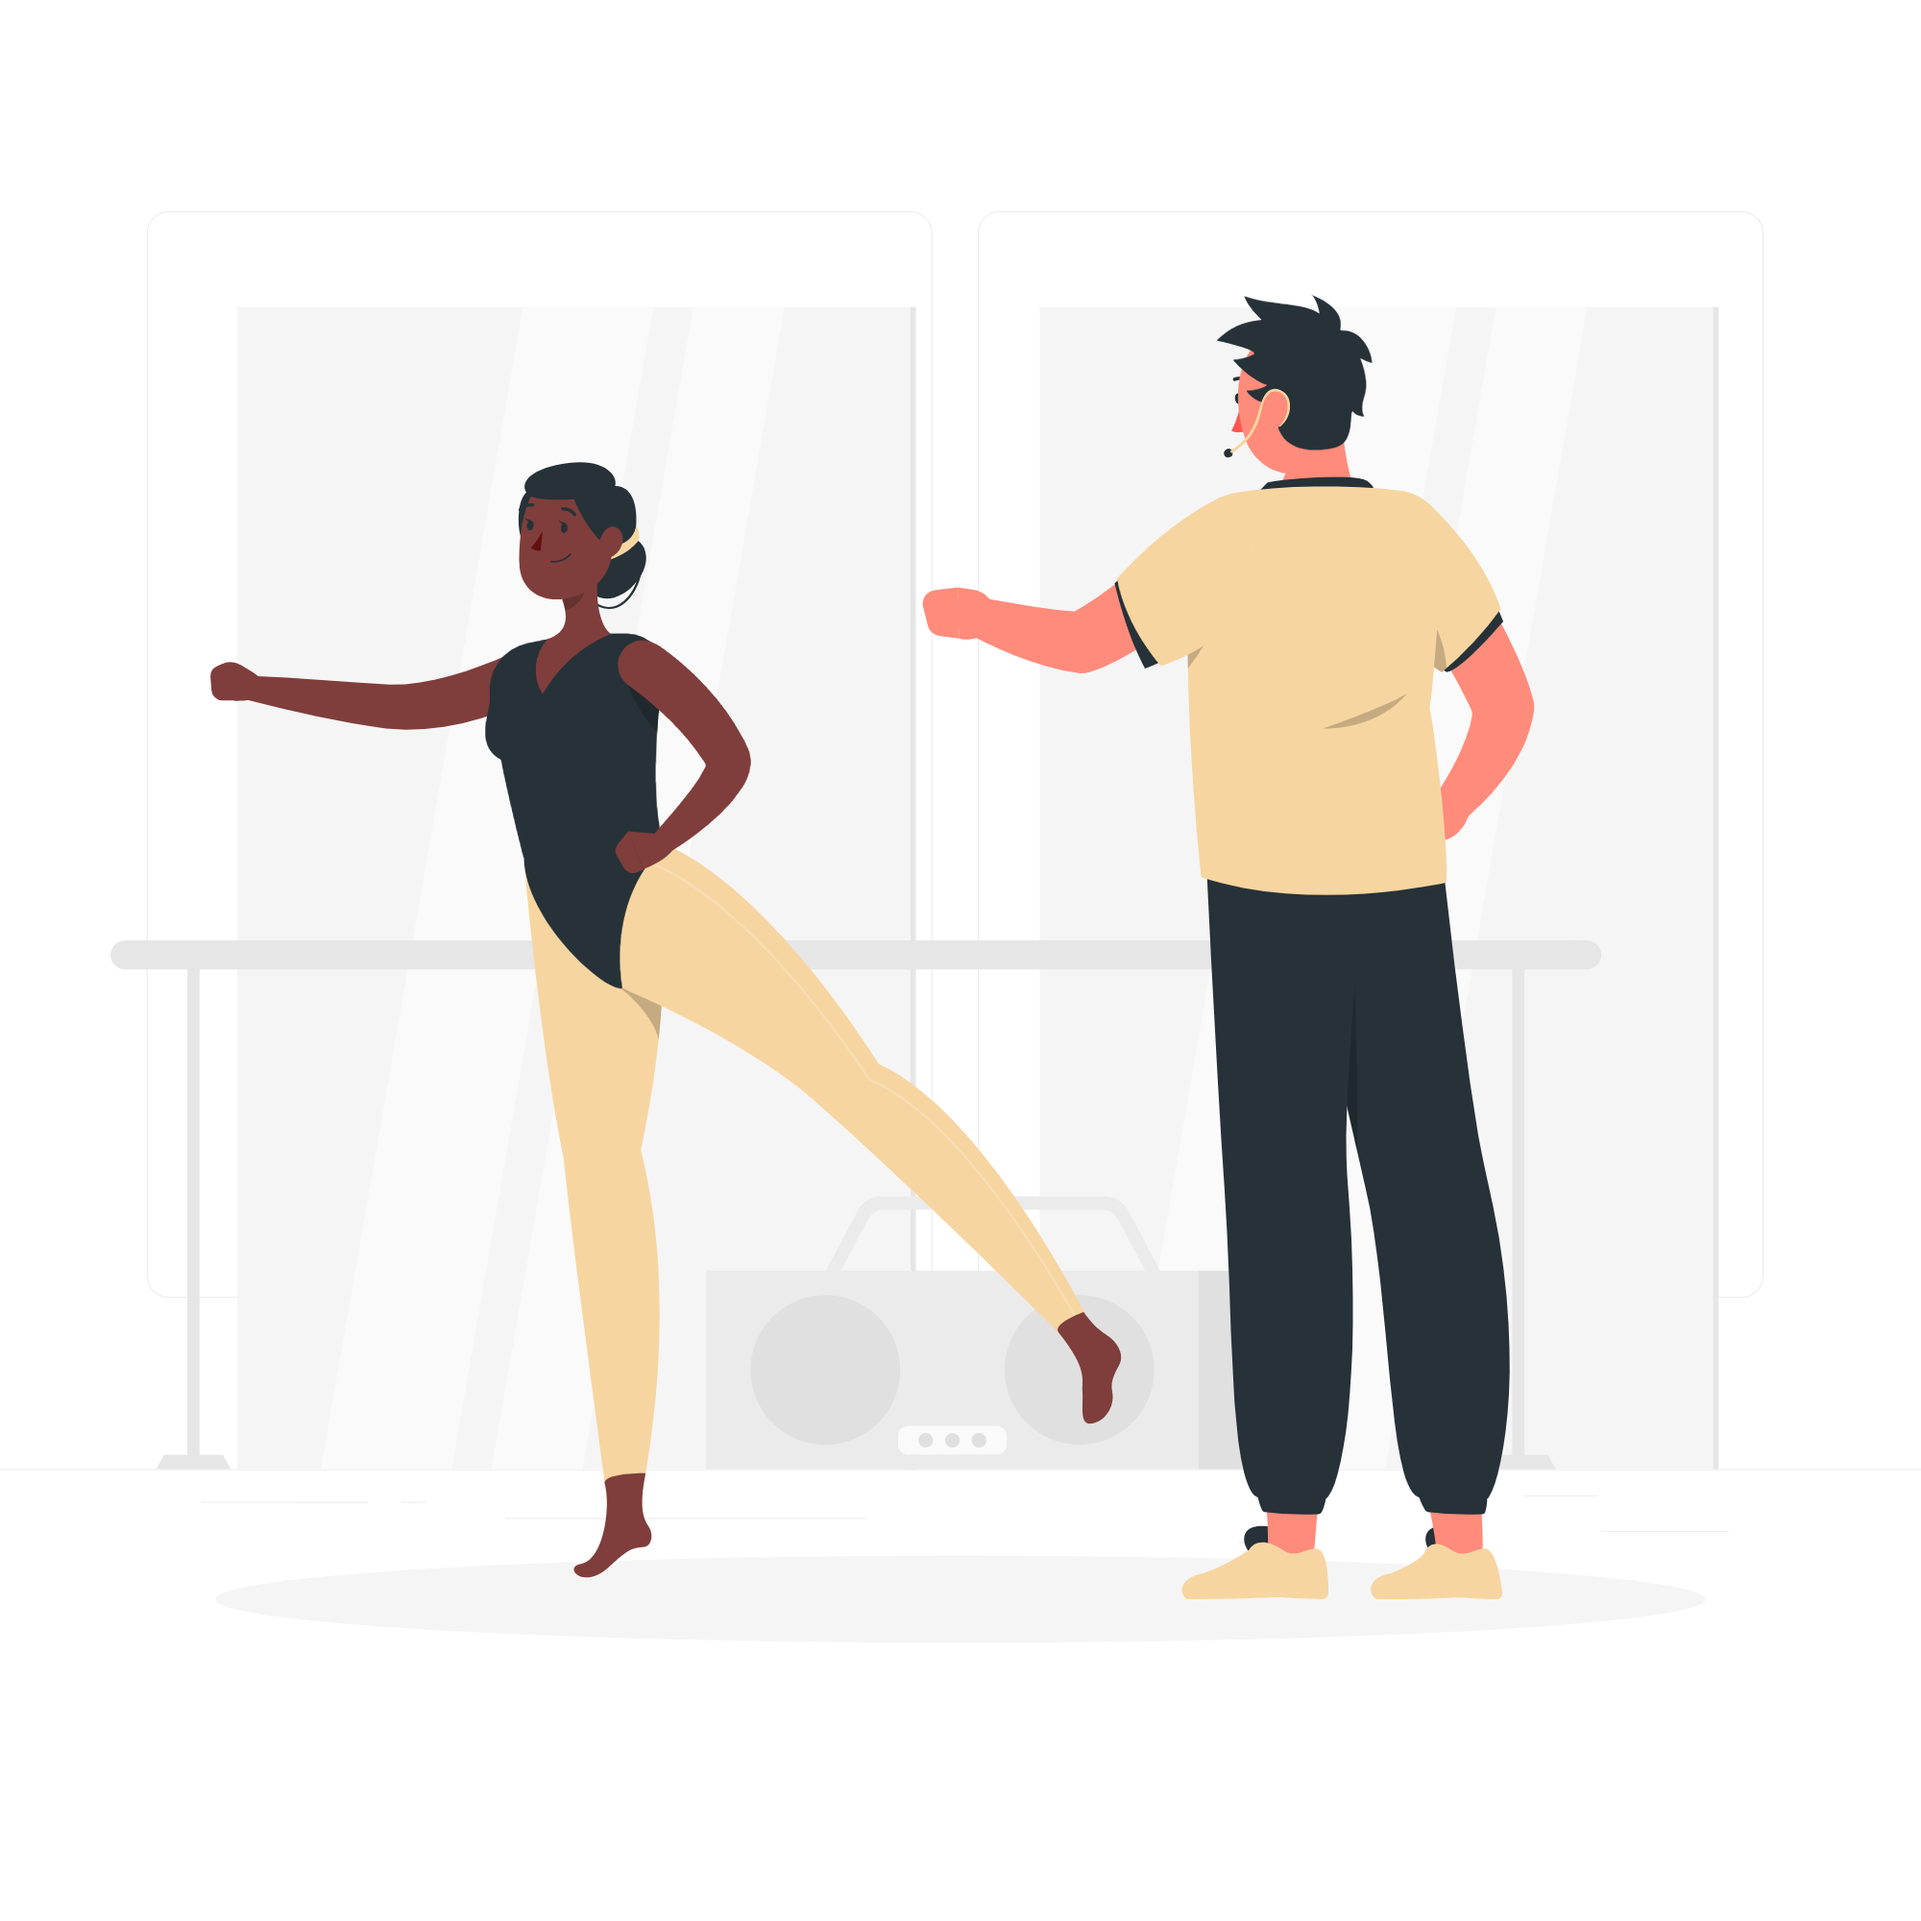
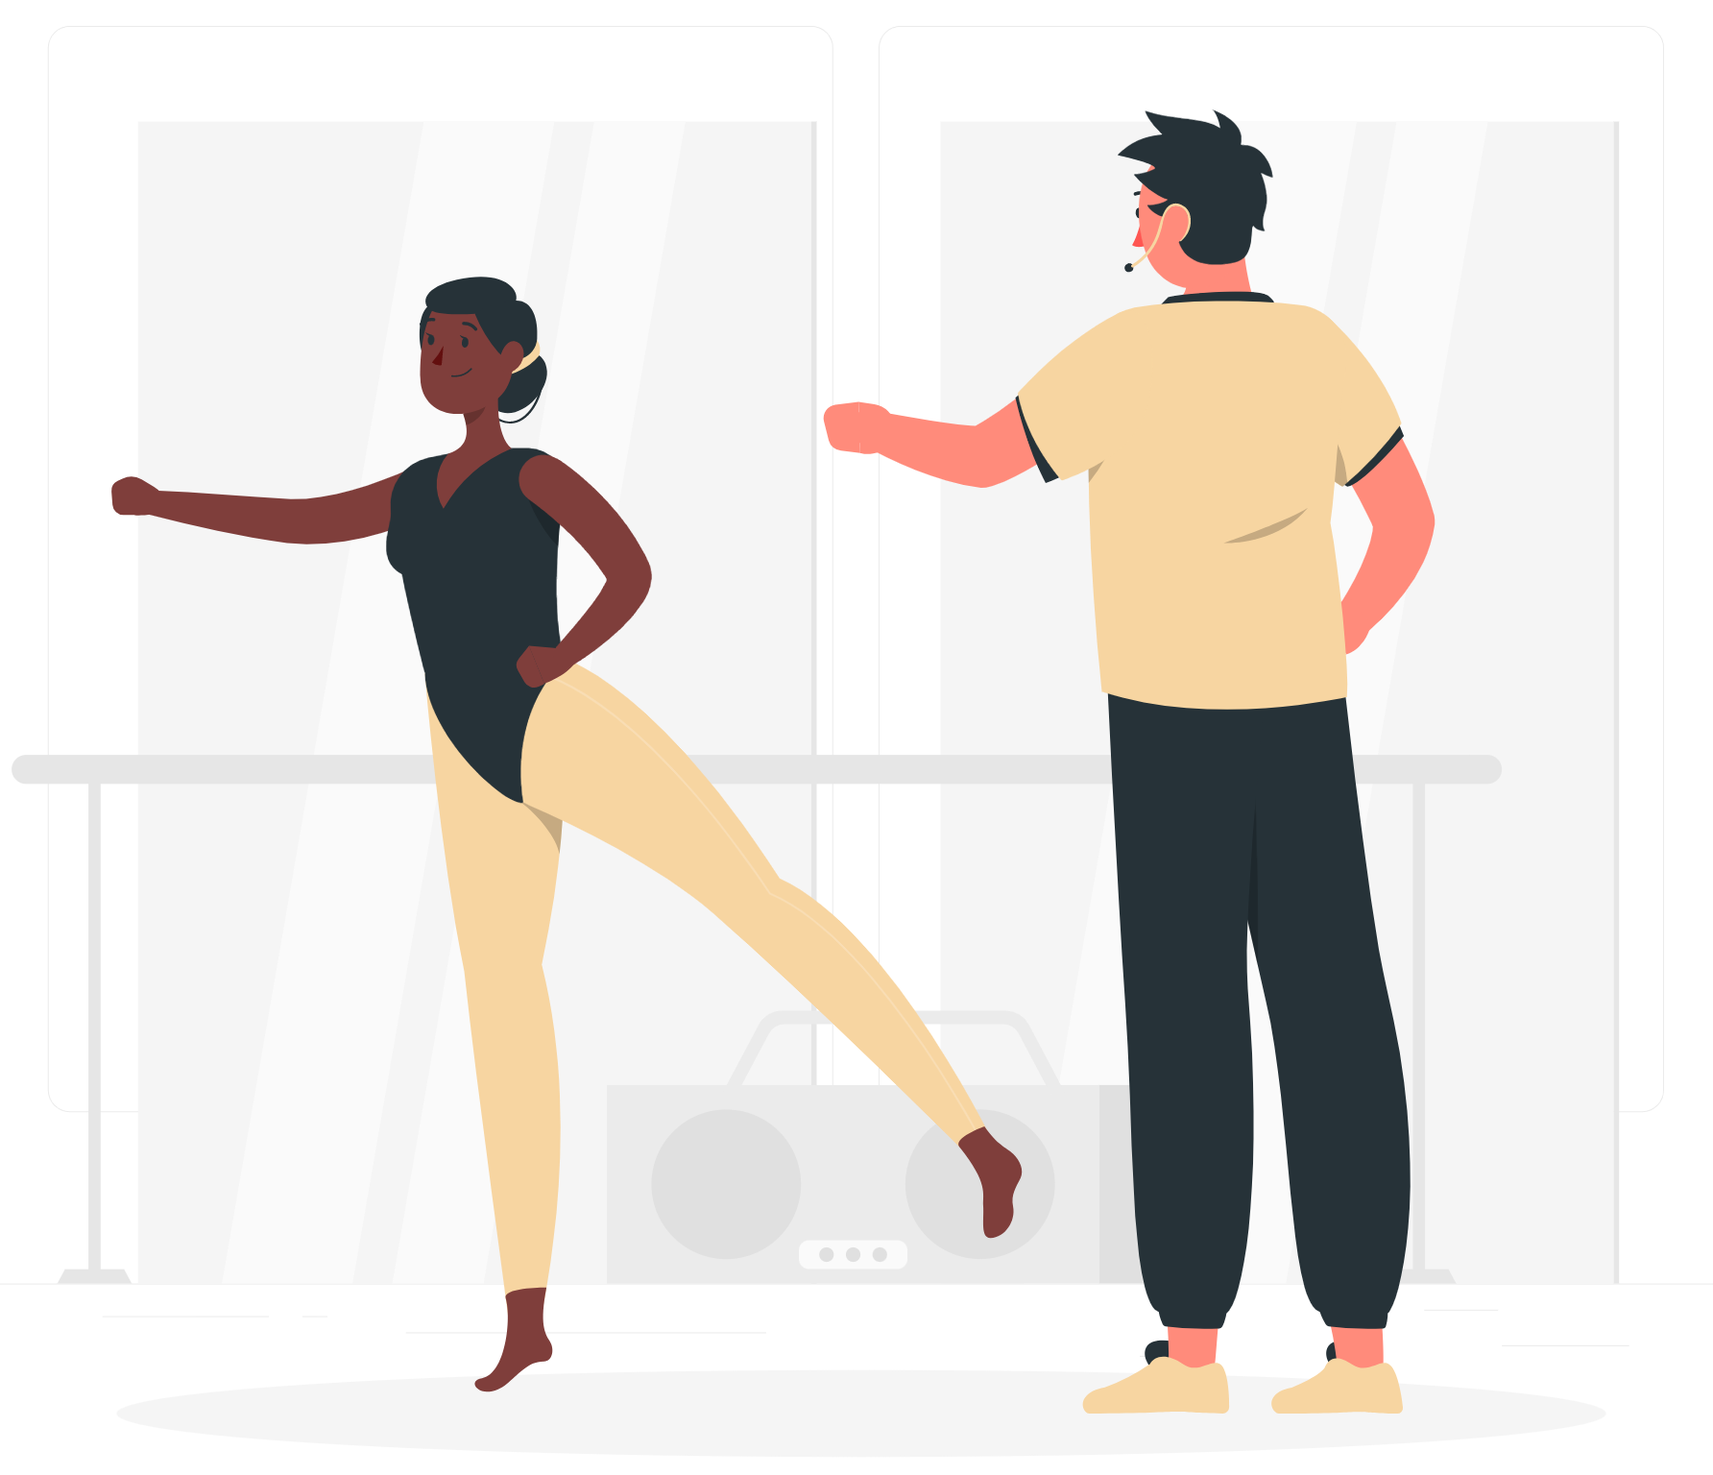
update login

diff --git a/public/css/login.css b/public/css/login.css
@@ -4,6 +4,7 @@
  */
 .main_login{
     width: 80vw!important;
+    height: 75vh;
     display: flex;
     margin: auto;
 }
@@ -18,6 +19,8 @@
 
 .main_login img{
     width: 50%;
+    animation: go-back 1.2s;
+    filter: drop-shadow(5px 5px 5px rgb(71, 71, 71));
 }
 
 .form_login{
@@ -54,20 +57,42 @@ form{
 }
 
 .submit button{
-    position: relative;
-    display: flex;
-    align-items: center;
-    justify-content: center;
     width: 100%;
-    height: 100%;
+    height: 55%;
+    display: flex;
+    justify-content: center;
+    align-items: center;
+    line-height: 56px;
+    text-decoration: none;
+    font-weight: bold;
+    color: var(--branco);
     background-color: var(--rosa);
     border: 1px solid var(--rosa);
-    font-weight: bold;
+    border-radius: 10px;
+    box-shadow: 5px 5px 10px 1px #00000026;
+    font-family: var(--roboto) !important;
     font-size: 20px;
 }
 
 .submit button:hover{
     color: #fff;
+    background-color: var(--rosa);
+    border: 1px solid var(--rosa);
+    transform: scale(1.02);
+    transition: transform 0.4s ease-in-out;
+}
+
+.submit button:active {
+    top: 2px;
+    background-color: var(--rosaE);
+}
+
+.submit button:hover:after{
+    left: 0;
+    width: 100%;
+}
+
+.submit button:after{
     position: absolute;
     content: "";
     width: 0;
@@ -83,23 +108,28 @@ form{
     transition: all 0.3s ease;
 }
 
-.submit button:hover:after{
-    left: 0;
-    width: 100%;
+.submit button:click {
+    background-color: var(--rosaE);
 }
 
-.submit button:after{
-    /* position: absolute;
-    content: "";
-    width: 0;
-    height: 100%;
-    top: 0;
-    right: 0;
-    z-index: -1;
-    background-color: var(--rosaE);
-    border-radius: 5px;
-    box-shadow: inset 2px 2px 2px 0px rgba(255, 255, 255, .5),
-        7px 7px 20px 0px rgba(0, 0, 0, .1),
-        4px 4px 5px 0px rgba(0, 0, 0, .1);
-    transition: all 0.3s ease; */
+.btn-primary{
+    --bs-btn-active-bg: var(--rosaE)!important;
+    --bs-btn-active-border-color: var(--rosaE)!important;
+}
+
+
+.justify-content-center {
+    height: calc( 100vh - 55vh);
+}
+
+@keyframes go-back {
+    0% {
+        transform: translateX(-1000px);
+    }
+    80% {
+        transform: translateX(90px);
+    }
+    100% {
+        transform: translateX(0);
+    }
 }

diff --git a/public/css/footer.css b/public/css/footer.css
@@ -5,13 +5,22 @@ footer {
     flex-direction: column;
 }
 
-section#first, section#second, section#second_mobile, section#third{
+section#first, section#second, section#second_mobile{
     display: flex;
     height: auto;
     width: 80vw;
     align-content: center;
     justify-content: space-around;
     padding: 20px 0;
+    margin: 0 auto;
+}
+section#third{
+    display: flex;
+    height: auto;
+    width: 80vw;
+    align-content: center;
+    justify-content: space-around;
+    padding-top: 20px;
     margin: 0 auto;
 }
 hr.footer_divissor

diff --git a/resources/views/layout/partials/nav.blade.php b/resources/views/layout/partials/nav.blade.php
@@ -38,6 +38,17 @@
             <li class="nav-item">
               <a class="nav-link" href="{{ asset('inscricoes') }}">Inscrição</a>
             </li>
+            <!-- <li class="nav-item dropdown">
+              <a class="nav-link dropdown-toggle" href="" role="button"
+                data-bs-toggle="dropdown" aria-expanded="false">
+                Inscreva-se
+              </a>
+              <ul class="dropdown-menu">
+                <li><a class="dropdown-item" href="{{ asset('Aluno') }}">Aluno</a></li>
+                <li><a class="dropdown-item" href="{{ asset('Seja professor') }}">Seja professor</a></li>
+                <li><a class="dropdown-item" href="{{ asset('Patrocinio') }}">Patrocínio</a></li>
+              </ul>
+            </li> -->
             <li class="nav-item dropdown">
               @auth
               <a class="nav-link dropdown-toggle" href="" role="button"

diff --git a/resources/views/layouts/app.blade.php b/resources/views/layouts/app.blade.php
@@ -7,7 +7,7 @@
     <!-- CSRF Token -->
     <meta name="csrf-token" content="{{ csrf_token() }}">
 
-    <title>{{ config('app.name', 'Laravel') }}</title>
+    <title>{{ config('app.name', 'MoveArt - Login') }}</title>
 
     <!-- Fonts -->
     <link rel="dns-prefetch" href="//fonts.gstatic.com">
@@ -50,7 +50,7 @@
 
                             @if (Route::has('register'))
                                 <li class="nav-item">
-                                    <a class="nav-link" href="{{ route('register') }}">{{ __('Register') }}</a>
+                                    <a class="nav-link" href="{{ route('register') }}">{{ __('Registo') }}</a>
                                 </li>
                             @endif
                         @else

diff --git a/resources/views/auth/login.blade.php b/resources/views/auth/login.blade.php
@@ -2,7 +2,7 @@
 
 @section('content')
 <div class="login_page">
-    <img src="{{ asset('img/login/Choreographer-rafiki_amarelo.png') }}" alt="imagem de login" class="image">
+    <img src="{{ asset('img/login/Choreographer-amico.png') }}" alt="imagem de login" class="image">
     <div class="form_login">
         <form method="POST" action="{{ route('login') }}">
             @csrf

diff --git a/resources/views/layout/partials/footer.blade.php b/resources/views/layout/partials/footer.blade.php
@@ -1,7 +1,7 @@
 <footer>
     <section id="first">
         <div class="logo">
-            <img src="{{asset('img/footer/Logo Ballet Preto.png')}}" alt="">
+            <a href="{{ asset('/') }}"><img src="{{asset('img/footer/Logo Ballet Preto.png')}}" alt=""></a>
         </div>
         <div class="menu">
             <ul>
